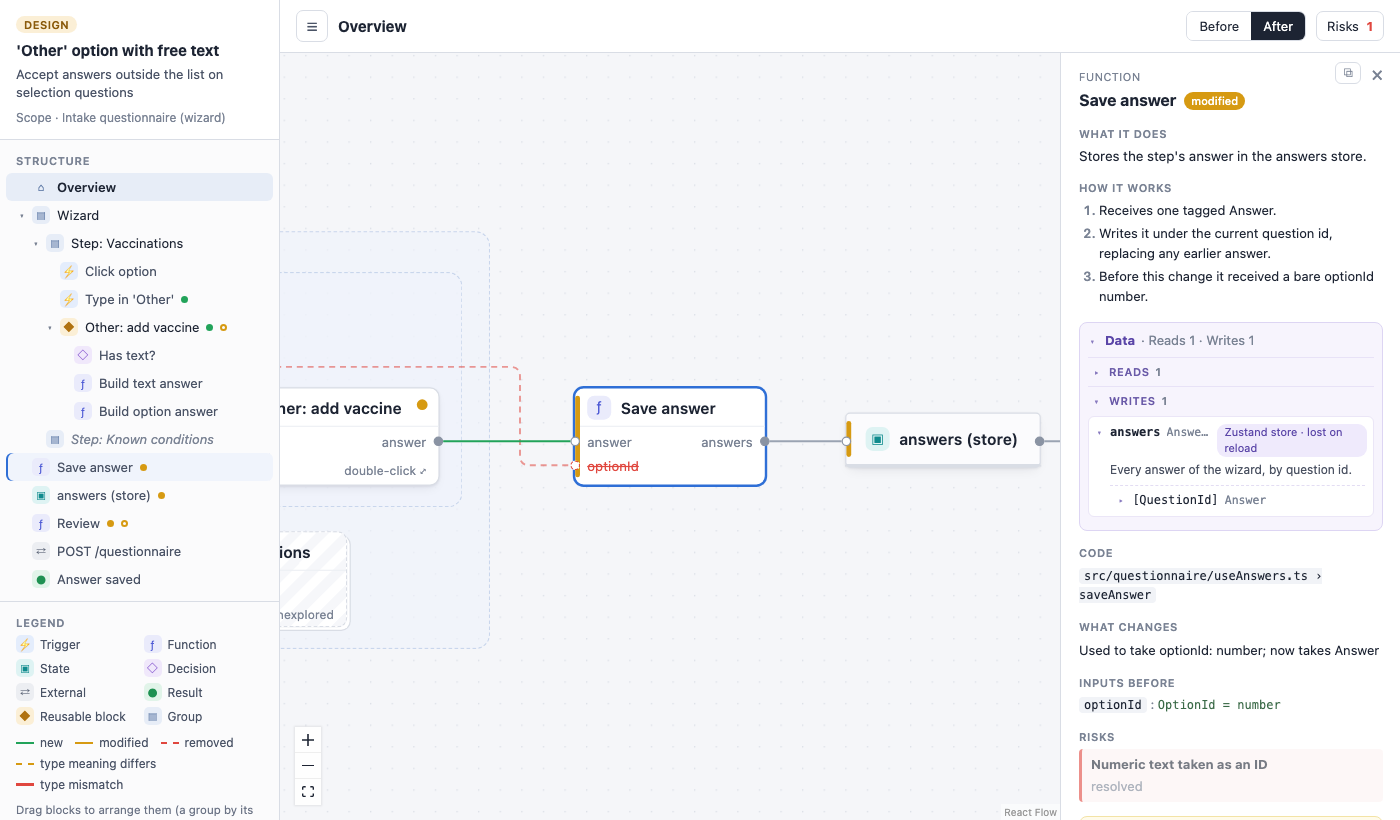
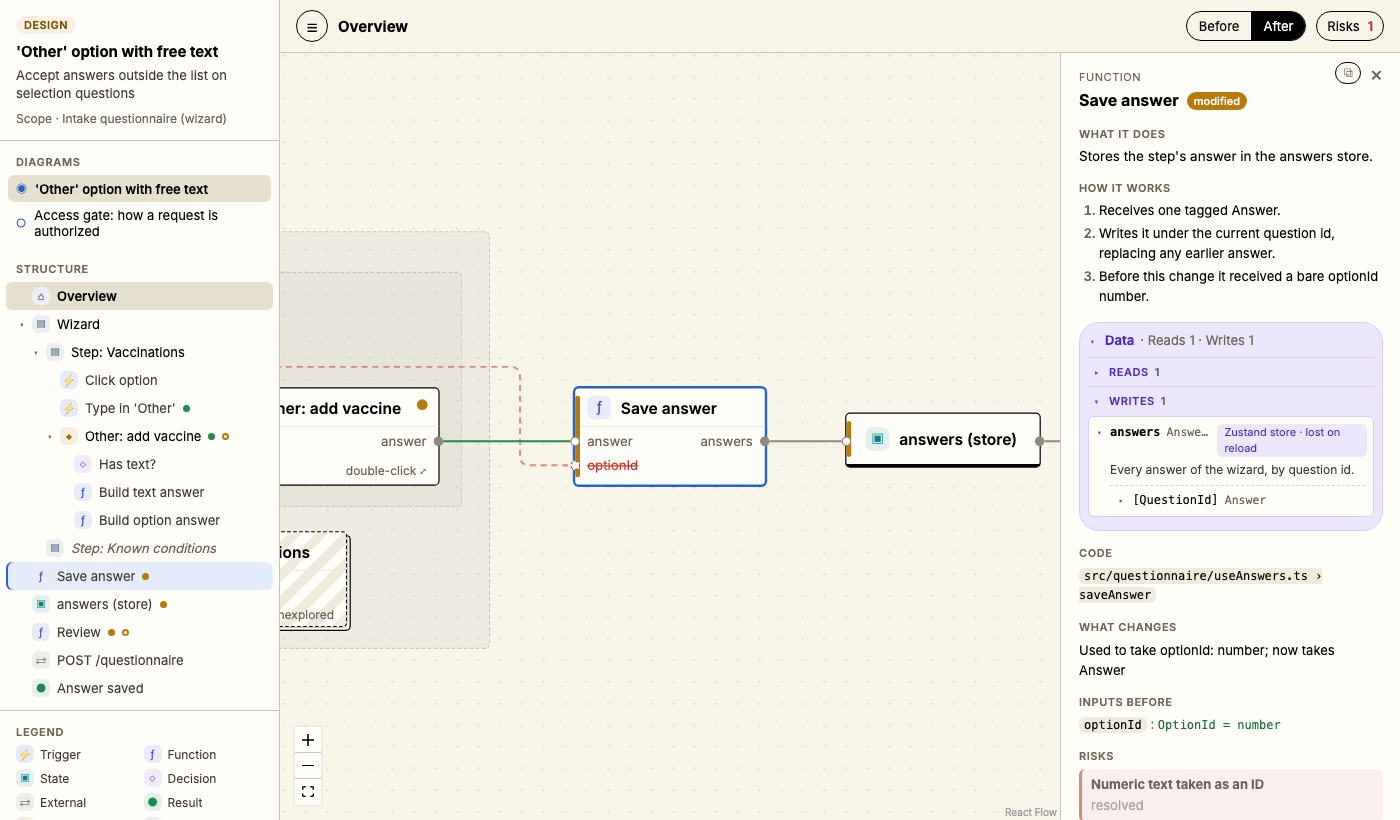
docs: README screenshots in the new theme
An e2e test checks the theme in a real browser: cream canvas, 4px blocks, pill
buttons and the bundled Inter font. The README credits Inter (OFL 1.1).

diff --git a/tests/e2e/open.spec.ts b/tests/e2e/open.spec.ts
@@ -478,3 +478,26 @@ test('the viewer never says Claude', async ({ page }) => {
     opened.child.kill();
   }
 });
+
+test('the viewer wears the agentic-fbd theme', async ({ page }) => {
+  const opened = await open(join(examples, 'auth-gate.logic.json'));
+  const errors = trackErrors(page);
+  try {
+    await page.goto(opened.url);
+    await rendered(page).filter({ hasText: 'Authorization' }).first().dblclick();
+    await expect(page.getByRole('button', { name: 'Copy for agent' })).toBeVisible();
+    const style = (selector: string, prop: string) =>
+      page.locator(selector).first().evaluate((el, p) => getComputedStyle(el).getPropertyValue(p), prop);
+    expect(await style('html', 'background-color')).toBe('rgb(247, 244, 232)');
+    expect(await style('.lb-node', 'border-radius')).toBe('4px');
+    expect(await style('.lb-button', 'border-radius')).toBe('20px');
+    // Inter ships with the viewer; the CLI serves it offline.
+    expect(await page.evaluate(async () => {
+      await document.fonts.ready;
+      return [...document.fonts].some((f) => f.family.includes('Inter Variable') && f.status === 'loaded');
+    })).toBe(true);
+    expect(errors).toEqual([]);
+  } finally {
+    opened.child.kill();
+  }
+});

diff --git a/README.md b/README.md
@@ -182,3 +182,5 @@ agent-specific.
 ## License
 
 [MIT](LICENSE) © 2026 Gabriel Londoño
+
+The viewer bundles the Inter typeface by Rasmus Andersson (SIL Open Font License 1.1).
